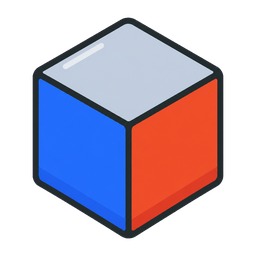
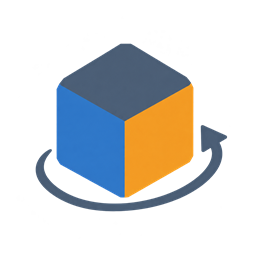
Установка плагина

diff --git a/installer/Program.cs b/installer/Program.cs
@@ -1,0 +1,149 @@
+using System;
+using System.IO;
+using System.IO.Compression;
+using System.Reflection;
+using System.Diagnostics;
+using System.Windows.Forms;
+
+namespace ViewCubeInstaller
+{
+  internal static class Program
+  {
+    private static readonly string[] Files = {
+      "ViewCubeOverlay.dll", "ViewCubeOverlay.deps.json", "ViewCubeOverlay.rndesc",
+      "icon.png", "Renga.NET8.PluginUtility.dll", "Interop.Renga.dll"
+    };
+
+    [STAThread]
+    private static int Main(string[] args)
+    {
+      if (args.Length == 1 && args[0] == "--self-test") return SelfTest();
+      if (args.Length != 0) return 2;
+      Application.EnableVisualStyles();
+      Application.SetCompatibleTextRenderingDefault(false);
+      if (Process.GetProcessesByName("Renga").Length > 0)
+      {
+        MessageBox.Show("Закройте Renga перед установкой плагина и запустите установщик снова.", "Видовой куб", MessageBoxButtons.OK, MessageBoxIcon.Information);
+        return 1;
+      }
+      using (var dialog = new FolderBrowserDialog())
+      {
+        dialog.Description = "Выберите папку установленной Renga (в ней находится Renga.exe).";
+        dialog.ShowNewFolderButton = false;
+        string knownPath = @"C:\Soft\Renga Professional";
+        if (File.Exists(Path.Combine(knownPath, "Renga.exe"))) dialog.SelectedPath = knownPath;
+        if (dialog.ShowDialog() != DialogResult.OK) return 0;
+        try
+        {
+          Install(dialog.SelectedPath);
+          MessageBox.Show("Плагин установлен. Запустите Renga и откройте 3D-вид.", "Установка завершена", MessageBoxButtons.OK, MessageBoxIcon.Information);
+          return 0;
+        }
+        catch (Exception ex)
+        {
+          MessageBox.Show("Установка не выполнена: " + ex.Message + "\n\nЕсли доступ к папке запрещён, запустите установщик от имени администратора.", "Видовой куб", MessageBoxButtons.OK, MessageBoxIcon.Error);
+          return 1;
+        }
+      }
+    }
+
+    private static void Install(string rengaPath)
+    {
+      if (!File.Exists(Path.Combine(rengaPath, "Renga.exe")))
+        throw new InvalidOperationException("В выбранной папке не найден Renga.exe.");
+      string target = Path.Combine(rengaPath, "Plugins", "ViewCubeOverlay");
+      string staging = Path.Combine(Path.GetTempPath(), "ViewCubeInstaller-" + Guid.NewGuid().ToString("N"));
+      string backup = Path.Combine(staging, "backup");
+      var changed = new System.Collections.Generic.List<string>();
+      bool keepBackup = false;
+      try
+      {
+        Directory.CreateDirectory(staging);
+        Directory.CreateDirectory(backup);
+        using (Stream payload = Assembly.GetExecutingAssembly().GetManifestResourceStream("ViewCubeInstaller.payload.zip"))
+        {
+          if (payload == null) throw new InvalidOperationException("Не найден комплект файлов плагина.");
+          using (var archive = new ZipArchive(payload, ZipArchiveMode.Read))
+          {
+            foreach (string name in Files)
+            {
+              ZipArchiveEntry entry = archive.GetEntry(name);
+              if (entry == null) throw new InvalidOperationException("В комплекте отсутствует " + name);
+              entry.ExtractToFile(Path.Combine(staging, name));
+            }
+          }
+        }
+        Directory.CreateDirectory(target);
+        foreach (string name in Files)
+        {
+          string destination = Path.Combine(target, name);
+          if (File.Exists(destination)) File.Copy(destination, Path.Combine(backup, name));
+        }
+        try
+        {
+          foreach (string name in Files)
+          {
+            changed.Add(name);
+            File.Copy(Path.Combine(staging, name), Path.Combine(target, name), true);
+          }
+        }
+        catch (Exception installError)
+        {
+          var rollbackErrors = new System.Collections.Generic.List<string>();
+          foreach (string name in changed)
+          {
+            try
+            {
+              string original = Path.Combine(backup, name);
+              string destination = Path.Combine(target, name);
+              if (File.Exists(original)) File.Copy(original, destination, true);
+              else if (File.Exists(destination)) File.Delete(destination);
+            }
+            catch (Exception rollbackError) { rollbackErrors.Add(name + ": " + rollbackError.Message); }
+          }
+          if (rollbackErrors.Count > 0)
+          {
+            // Keep the backup so that a user can recover it manually.
+            keepBackup = true;
+            throw new InvalidOperationException("Не удалось восстановить некоторые файлы. Резервные копии: " + backup + ". Ошибка: " + installError.Message + ". " + String.Join("; ", rollbackErrors), installError);
+          }
+          throw;
+        }
+      }
+      finally
+      {
+        // If rollback failed, keep all backups for recovery.
+        if (Directory.Exists(staging) && !keepBackup)
+          try { Directory.Delete(staging, true); } catch { }
+      }
+    }
+
+    private static int SelfTest()
+    {
+      string root = Path.Combine(Path.GetTempPath(), "ViewCubeInstallerTest-" + Guid.NewGuid().ToString("N"));
+      try
+      {
+        Directory.CreateDirectory(root);
+        File.WriteAllText(Path.Combine(root, "Renga.exe"), "test");
+        Install(root);
+        string target = Path.Combine(root, "Plugins", "ViewCubeOverlay");
+        foreach (string name in Files)
+          if (!File.Exists(Path.Combine(target, name)) || new FileInfo(Path.Combine(target, name)).Length == 0) throw new Exception("Missing: " + name);
+        string dll = Path.Combine(target, "ViewCubeOverlay.dll");
+        string expected;
+        using (var hash = System.Security.Cryptography.SHA256.Create())
+          expected = BitConverter.ToString(hash.ComputeHash(File.ReadAllBytes(dll)));
+        File.WriteAllText(dll, "old version");
+        File.WriteAllText(Path.Combine(target, "unrelated.txt"), "keep");
+        Install(root);
+        using (var hash = System.Security.Cryptography.SHA256.Create())
+          if (expected != BitConverter.ToString(hash.ComputeHash(File.ReadAllBytes(dll)))) throw new Exception("Update did not replace old file");
+        if (!File.Exists(Path.Combine(target, "unrelated.txt"))) throw new Exception("Unrelated file removed");
+        Console.WriteLine("PASS: clean install and update in an isolated directory");
+        return 0;
+      }
+      catch (Exception ex) { Console.Error.WriteLine(ex); return 1; }
+      finally { try { if (Directory.Exists(root)) Directory.Delete(root, true); } catch { } }
+    }
+  }
+}

diff --git a/README.md b/README.md
@@ -36,9 +36,29 @@
 
 Проект самостоятельный. Его решение — `ViewCube.sln` в корне этого репозитория. Оно не входит в `Samples.sln` Renga SDK и не требует, чтобы исходники лежали в каталоге примеров SDK.
 
-## Получение плагина
+## Установка
 
-В репозитории опубликованы исходные файлы. Для установки соберите плагин по инструкции ниже; файлы Renga SDK необходимо получить отдельно. Перед использованием ознакомьтесь с [условиями лицензии](LICENSE.md).
+Откройте [релиз v1.5.2.0](https://github.com/Garyaev-dev/Renga-View-Cube/releases/tag/v1.5.2.0) и выберите один способ установки. Перед установкой закройте Renga и ознакомьтесь с [условиями лицензии](LICENSE.md).
+
+### Способ 1. Установщик EXE
+
+1. Скачайте и запустите `ViewCubeInstaller-v1.5.2.0.exe`.
+2. Выберите папку Renga, в которой находится `Renga.exe`. Установщик скопирует файлы в `Plugins\ViewCubeOverlay`.
+3. Запустите Renga и откройте 3D-вид. На панели появится команда «Видовой куб (окно)».
+
+Если Windows запретит запись, запустите установщик от имени администратора. Установщик не подписан цифровой подписью, поэтому Windows может показать предупреждение.
+
+### Способ 2. ZIP-архив
+
+1. Скачайте и распакуйте `ViewCubeOverlay-v1.5.2.0.zip`.
+2. Скопируйте его файлы в `<папка Renga>\Plugins\ViewCubeOverlay\` с заменой существующих файлов.
+3. Запустите Renga и откройте 3D-вид.
+
+В EXE находится более новая иконка кнопки; в ZIP сохранена иконка первоначального релиза. В обоих вариантах версия плагина — 1.5.2.0.
+
+### Сборка из исходников
+
+Плагин и установщик можно собрать самостоятельно по инструкциям ниже; для сборки плагина файлы Renga SDK необходимо получить отдельно.
 
 ## Сборка
 
@@ -70,23 +90,17 @@ MSBuild.exe tests\ViewCubeOverlay.Smoke\ViewCubeOverlay.Smoke.csproj /restore /p
 
 Эта проверка не заменяет тестирование управления камерой и поведения окна в Renga.
 
-## Установка
+## Установщик для Windows
 
-Скопируйте файлы из `bin\Release\ViewCubeOverlay\` (без папки `obfuscated`) в каталог плагинов своей Renga:
+После сборки плагина можно создать установщик из готовой папки Release:
 
-```text
-<папка установки Renga>\Plugins\ViewCubeOverlay\
+```powershell
+.\installer\build.ps1
 ```
 
-Перезапустите Renga. В 3D-виде нажмите «Видовой куб (окно)».
+Скрипт создаёт `bin\ViewCubeInstaller-v<версия>.exe` и проверяет установку в изолированной временной папке. Перед запуском установщика закройте Renga и выберите папку, содержащую `Renga.exe`. Плагин будет установлен в `Plugins\ViewCubeOverlay`; существующие настройки пользователя и другие файлы в папке плагина не удаляются. Если доступ к каталогу установки запрещён, запустите установщик от имени администратора.
 
-Чтобы MSBuild сам скопировал эти файлы, передайте каталог:
-
-```text
-/p:RengaPluginDeployDir=<папка установки Renga>\Plugins\ViewCubeOverlay\
-```
-
-В репозитории лежат исходники. Готовые файлы из папки `Plugins` установленной Renga сюда не входят.
+Установщик не подписан цифровой подписью и не создаёт запись удаления в Windows. Для удаления плагина закройте Renga и удалите папку `Plugins\ViewCubeOverlay`; пользовательские настройки в `%AppData%\ViewCubeOverlay` хранятся отдельно.
 
 ## Состав
 
@@ -98,6 +112,7 @@ LICENSE.md
 TERMS.md
 src\ViewCubeOverlay\    проект плагина: C# / XAML, ViewCubeOverlay.rndesc, icon.png
 tests\ViewCubeOverlay.Smoke\  проверка Release-сборки и окна настроек
+installer\              исходный код и скрипт сборки установщика
 lib\                    справочные файлы SDK для сборки (см. выше)
 ```
 
